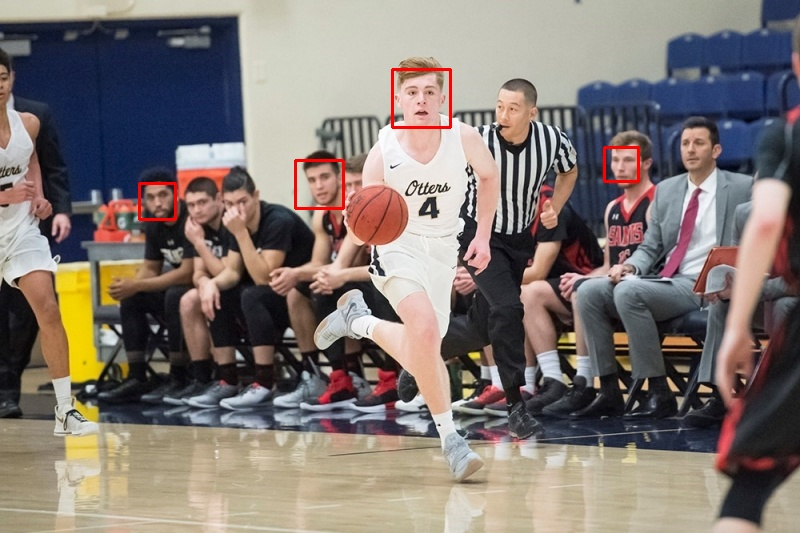
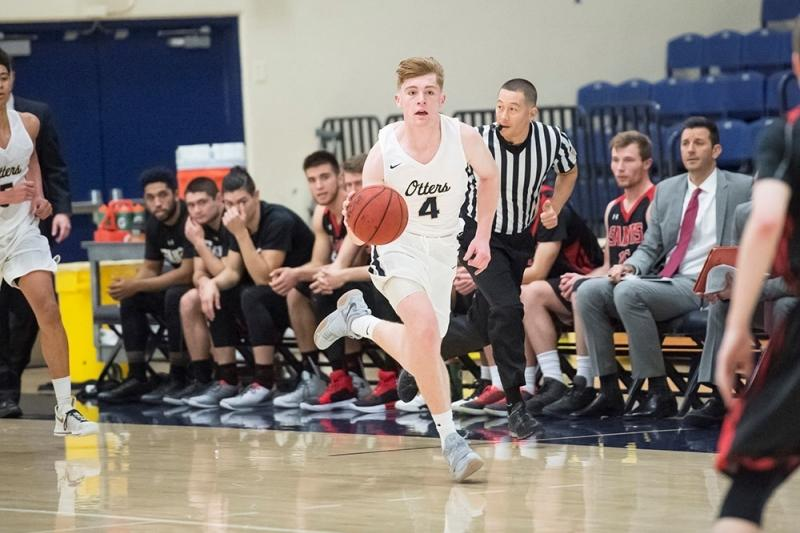
Fixed face recognition

diff --git a/face_reader.py b/face_reader.py
@@ -14,11 +14,11 @@ else:
     print("yes!")
 
 
-
+face = 1
 for file in os.listdir("images"):
-    face = 15
+
     if file.endswith(".jpg"):
-        img = Image.open("images/"+ str(face)+".jpg")
+        img = cv2.imread("images/"+ file )
         gray = cv2.cvtColor(img, cv2.COLOR_BGR2GRAY)
         faces = face_cascade.detectMultiScale(gray, 1.3, 5)
 
@@ -33,4 +33,4 @@ for file in os.listdir("images"):
 
         #pprint(eyes)
         cv2.imwrite('faceimages/'+ str(face)+'.jpg', img)
-        face += 1
+        face = face+1
